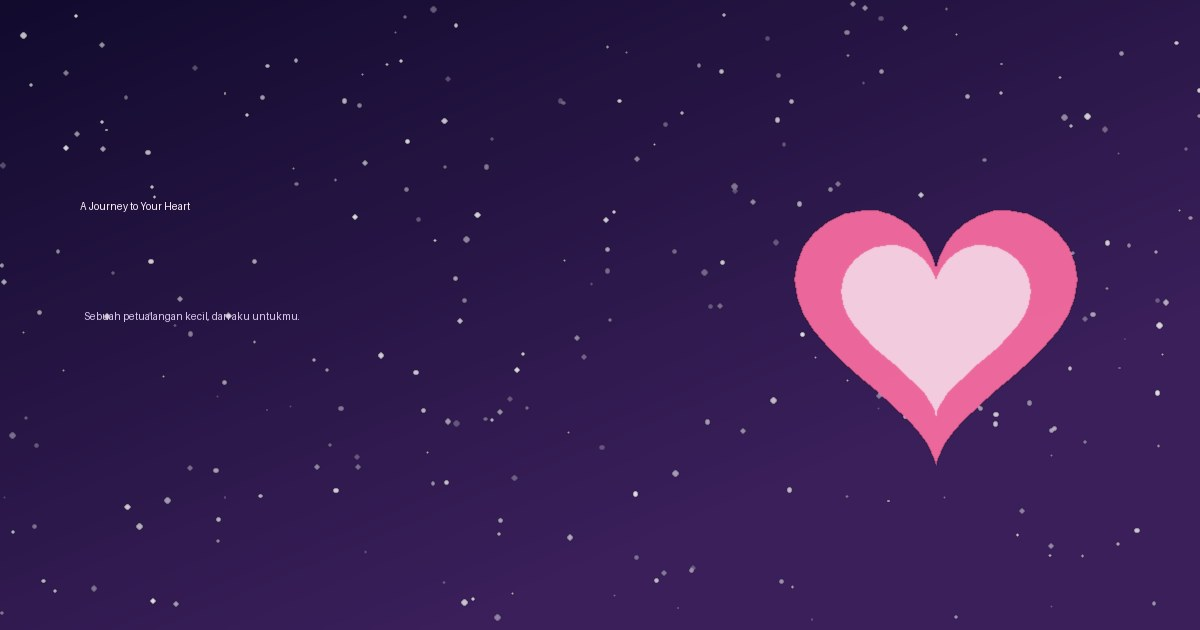
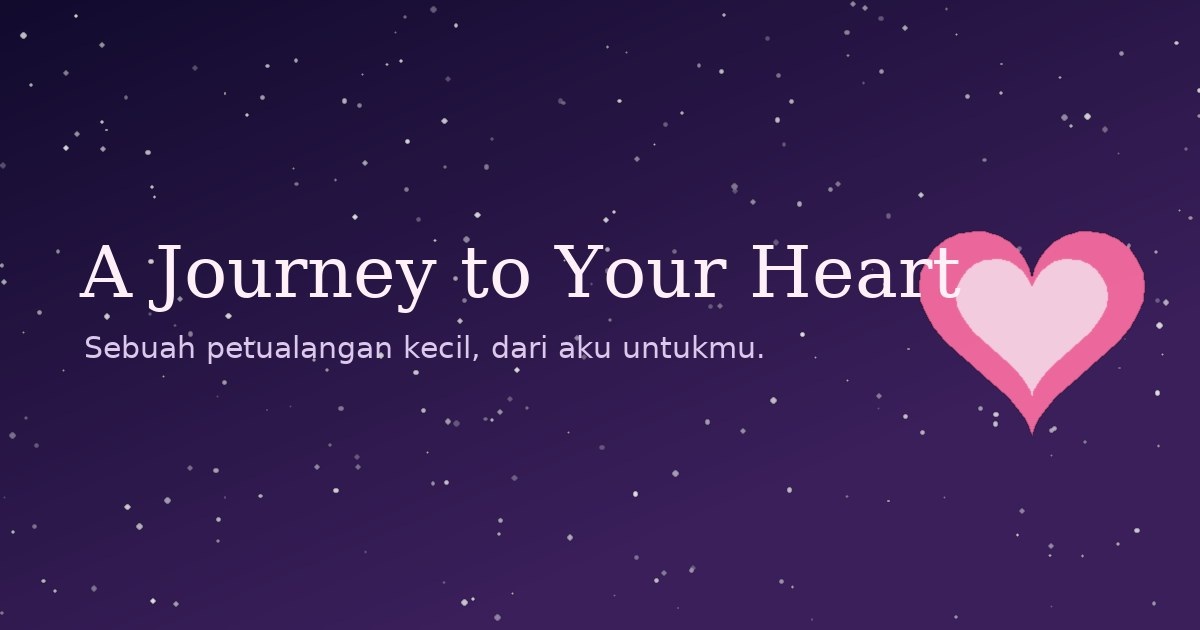
docs: README, OG/key visuals, suspense-local polaroids, geometry scale fixes

Changed region(s): [[0.0617, 0.3317, 0.9558, 0.7238], [0.0617, 0.5429, 0.6475, 0.573], [0.0925, 0.3016, 0.1542, 0.3317]]

diff --git a/src/game/scenes/environments/MemoryGarden.tsx b/src/game/scenes/environments/MemoryGarden.tsx
@@ -1,6 +1,6 @@
 "use client";
 
-import { useEffect, useMemo, useRef } from "react";
+import { Suspense, useEffect, useMemo, useRef } from "react";
 import { useFrame } from "@react-three/fiber";
 import { useTexture } from "@react-three/drei";
 import * as THREE from "three";
@@ -88,6 +88,8 @@ function Pavilion() {
 /* -------------------------------------------------------------------------- */
 /*  Floating polaroids                                                        */
 /* -------------------------------------------------------------------------- */
+
+story.memories.forEach((m) => useTexture.preload(m.image));
 
 function Polaroid({ index, active }: { index: number; active: boolean }) {
   const memory = story.memories[index];
@@ -445,7 +447,14 @@ export default function MemoryGarden() {
           />
         ))}
 
-      {showPolaroids && story.memories.map((_, i) => <Polaroid key={i} index={i} active={sceneId === "memory-in-the-air" || sceneId === "memory-tree"} />)}
+      {/* Polaroids suspend on their textures — keep that local so the world never unmounts. */}
+      {showPolaroids && (
+        <Suspense fallback={null}>
+          {story.memories.map((_, i) => (
+            <Polaroid key={i} index={i} active={sceneId === "memory-in-the-air" || sceneId === "memory-tree"} />
+          ))}
+        </Suspense>
+      )}
 
       <Particles count={220} texture="petal" color={["#ff9fc4", "#ffd6e7", "#f3d08a"]} size={[0.1, 0.26]} area={[56, 12, 56]} center={[0, 6, 0]} velocity={[0.6, -0.35, 0.2]} jitter={0.5} sway={1} spin={1.5} twinkle={0.2} additive={false} seed={61} />
       <Particles count={140} texture="firefly" color={["#ffd27a", "#fff1c9"]} size={[0.06, 0.18]} area={[50, 5, 50]} center={[0, 1.5, 0]} velocity={[0.05, 0.08, 0.05]} jitter={0.5} sway={0.6} twinkle={1.8} seed={62} />

diff --git a/src/game/scenes/environments/OceanWorld.tsx b/src/game/scenes/environments/OceanWorld.tsx
@@ -198,8 +198,8 @@ function Boat() {
         <capsuleGeometry args={[0.9, 2.6, 6, 12]} />
         <meshStandardMaterial color="#2a1a14" roughness={0.9} />
       </mesh>
-      <mesh position={[0, 0.5, 0]} rotation={[Math.PI / 2, 0, 0]}>
-        <torusGeometry args={[1.0, 0.09, 8, 28]} scale={[1, 2.2, 1]} />
+      <mesh position={[0, 0.5, 0]} rotation={[Math.PI / 2, 0, 0]} scale={[1, 2.2, 1]}>
+        <torusGeometry args={[1.0, 0.09, 8, 28]} />
         <meshStandardMaterial color="#8a5a3a" roughness={0.8} />
       </mesh>
       {/* bench + lantern pole at the bow */}
@@ -306,8 +306,8 @@ function StarShrine({ active, onInteract }: { active: boolean; onInteract: () =>
   });
   return (
     <group position={[p[0], 0, p[2]]}>
-      <mesh position={[0, -0.5, 0]}>
-        <dodecahedronGeometry args={[SHRINE_ROCK_R, 1]} scale={[1, 0.35, 1]} />
+      <mesh position={[0, -0.5, 0]} scale={[1, 0.35, 1]}>
+        <dodecahedronGeometry args={[SHRINE_ROCK_R, 1]} />
         <meshStandardMaterial color="#3a3350" roughness={1} flatShading />
       </mesh>
       <mesh position={[0, 1.2, 0]}>

diff --git a/tests/registry.test.ts b/tests/registry.test.ts
@@ -1,6 +1,7 @@
 import { describe, expect, it } from "vitest";
 import { CHAPTERS, SCENES, SCENE_ORDER, TOTAL_SCENES, getChapterOfScene, getScene, isFirstSceneOfChapter, isLastSceneOfChapter, nextChapter } from "@/game/scenes/registry";
 import { story } from "@/config/story";
+import type { SceneId } from "@/types/game";
 
 describe("scene registry", () => {
   it("has 25 scenes in 5 chapters of 5", () => {
@@ -11,11 +12,11 @@ describe("scene registry", () => {
 
   it("forms a single linear chain from the first scene to the ending", () => {
     const visited = new Set<string>();
-    let id: string | undefined = SCENE_ORDER[0];
+    let id: SceneId | null = SCENE_ORDER[0];
     while (id) {
       expect(visited.has(id), `cycle at ${id}`).toBe(false);
       visited.add(id);
-      id = getScene(id as never).next;
+      id = getScene(id).next ?? null;
     }
     expect(visited.size).toBe(TOTAL_SCENES);
     expect([...visited].at(-1)).toBe("new-beginning");

diff --git a/src/game/scenes/environments/CastleWorld.tsx b/src/game/scenes/environments/CastleWorld.tsx
@@ -513,7 +513,7 @@ export default function CastleWorld() {
       ))}
 
       <GlowMarker position={[CASTLE.gate[0], getHeight(CASTLE.gate[0], CASTLE.gate[2]), CASTLE.gate[2]]} active={sceneId === "forgotten-castle"} color="#f3d08a" />
-      <GlowMarker position={[CASTLE.gate[0], 0.15, CASTLE.gate[2] - 4]} active={sceneId === "unspoken-words" && fx.castleGate > 0.5 && runtime.player.position.z > FZ} color="#f3d08a" beam={false} />
+      <GlowMarker position={[CASTLE.gate[0], 0.15, CASTLE.gate[2] - 4]} active={sceneId === "unspoken-words"} color="#f3d08a" beam={false} />
       <GlowMarker position={[CASTLE.heartRoom[0], 0.2, CASTLE.heartRoom[2] + 6]} active={sceneId === "heart-chamber"} color="#ff8fb8" />
 
       {showKeys &&

diff --git a/scripts/generate-textures.py b/scripts/generate-textures.py
@@ -351,6 +351,22 @@ def heart_poly(d: ImageDraw.ImageDraw, cx, cy, s, fill):
     d.polygon(pts, fill=fill)
 
 
+FONT_DIRS = ["/usr/share/fonts/truetype/dejavu", "/usr/share/fonts/truetype", "/Library/Fonts", "C:/Windows/Fonts"]
+
+
+def load_font(candidates, size):
+    """Best-effort system font lookup (Pillow cannot read woff2)."""
+    for name in candidates:
+        for d in FONT_DIRS:
+            path = os.path.join(d, name)
+            if os.path.exists(path):
+                try:
+                    return ImageFont.truetype(path, size)
+                except Exception:
+                    continue
+    return ImageFont.load_default()
+
+
 def og_card(size=(1200, 630)):
     w, h = size
     arr = gradient(size, "#120b2e", "#3a1f5a", 0.9)
@@ -363,20 +379,14 @@ def og_card(size=(1200, 630)):
         y0 = rng.uniform(0, h)
         r = rng.uniform(0.8, 3)
         d.ellipse([x0 - r, y0 - r, x0 + r, y0 + r], fill=(255, 255, 255, int(rng.uniform(60, 220))))
-    heart_poly(d, w * 0.78, h * 0.5, 150, (255, 111, 163, 230))
-    heart_poly(d, w * 0.78, h * 0.5, 100, (255, 214, 231, 240))
+    heart_poly(d, w * 0.86, h * 0.5, 120, (255, 111, 163, 230))
+    heart_poly(d, w * 0.86, h * 0.5, 80, (255, 214, 231, 240))
     img = Image.alpha_composite(img, layer.filter(ImageFilter.GaussianBlur(0.6)))
     d = ImageDraw.Draw(img)
-    try:
-        font_big = ImageFont.truetype(os.path.join(ROOT, "fonts", "cormorant-garamond-600.woff2"), 84)
-    except Exception:
-        font_big = ImageFont.load_default()
-    try:
-        font_small = ImageFont.truetype(os.path.join(ROOT, "fonts", "inter-400.woff2"), 30)
-    except Exception:
-        font_small = ImageFont.load_default()
-    d.text((80, 200), "A Journey to Your Heart", font=font_big, fill=(255, 240, 248))
-    d.text((84, 310), "Sebuah petualangan kecil, dari aku untukmu.", font=font_small, fill=(220, 200, 235))
+    font_big = load_font(["DejaVuSerif.ttf", "Georgia.ttf", "Times New Roman.ttf"], 72)
+    font_small = load_font(["DejaVuSans.ttf", "Arial.ttf"], 30)
+    d.text((80, 230), "A Journey to Your Heart", font=font_big, fill=(255, 240, 248))
+    d.text((84, 330), "Sebuah petualangan kecil, dari aku untukmu.", font=font_small, fill=(220, 200, 235))
     return img.convert("RGB")
 
 

diff --git a/README.md b/README.md
@@ -1,1 +1,134 @@
-# Public-1
+# A Journey to Your Heart
+
+> Sebuah petualangan 3D kecil, dari aku untukmu.
+> An interactive, story-driven 3D web experience that walks someone you love through five dreamlike worlds — and ends with a question.
+
+Built with **Next.js 16 · React 19 · Three.js / React Three Fiber · GSAP · Zustand · Tailwind v4**. Runs in any modern browser, desktop or mobile, with no account, no backend and no third-party assets — every sound and texture is generated by scripts in this repository.
+
+---
+
+## The journey
+
+| Chapter | World | What happens |
+| --- | --- | --- |
+| 1 · Dunia yang Asing | Sky Island | Wake on a floating island, read the first letter, gather three lights, open the portal |
+| 2 · Taman Kenangan | Memory Garden | Pick five flowers, view five floating memories, offer the flowers to the memory tree |
+| 3 · Lautan Perasaan | Silent Ocean | Board the boat, sail to the light, find three bottled messages, connect the stars |
+| 4 · Kastil Kata-kata | Forgotten Castle | Find three keys, unlock three letter fragments, enter the heart chamber, read *the* letter |
+| 5 · Tujuan Terakhir | Final Garden | Follow the glowing path, revisit everything you found, open the gift, answer the question |
+
+25 scenes in total, each with a tiny objective, dialogue and a cinematic or two. Progress auto-saves to `localStorage`, so the recipient can close the tab and come back.
+
+## Quick start
+
+```bash
+npm install
+npm run dev          # http://localhost:3000
+```
+
+```bash
+npm run check        # typecheck + lint + tests + production build
+npm run build && npm start
+```
+
+Requires Node 20+.
+
+## Make it yours
+
+Everything personal lives in **one file**: [`src/config/story.ts`](src/config/story.ts).
+
+- `senderName`, `recipientName`, `title`, `tagline`
+- every letter, dialogue line, bottled message, key description and letter fragment
+- the five memories (`title`, `caption`, `date`, `image`)
+- the proposal question and both answers' endings
+- accent colours, animation speed, puzzle difficulty
+
+The config is validated against a Zod schema on boot (`src/config/schema.ts`), so a typo surfaces as a clear error instead of a broken scene.
+
+### Replacing the memory photos
+
+Drop your own pictures into `public/memories/` as `memory-01.webp` … `memory-05.webp` (any aspect ratio — they're shown as polaroids and in a modal). The shipped images are illustrated placeholders produced by `scripts/generate-textures.py`.
+
+### Regenerating audio and textures
+
+All audio (8 music loops, 5 ambience beds, 28 sound effects) and textures (particle sprites, noise/paper/water tiles, memory cards, social card) are **synthesised procedurally** — the repository contains no third-party samples.
+
+```bash
+pip install numpy pillow soundfile lameenc
+npm run assets:audio      # → public/audio/**/*.{ogg,mp3}
+npm run assets:textures   # → public/{particles,textures,memories,images}
+```
+
+Tweak a melody in `scripts/generate-audio.py` (chord progressions, instruments and effects are a few lines each) and re-run; the game picks up the new files automatically.
+
+## Controls
+
+| Action | Desktop | Mobile |
+| --- | --- | --- |
+| Move / steer boat | `W A S D` or arrows | left joystick |
+| Look | mouse drag | drag right side |
+| Interact | `E` / `Space` / click | tap the prompt |
+| Run | `Shift` | — |
+| Inventory | `I` | bag button |
+| Pause / settings | `Esc` | pause button |
+| Skip cinematic | `Esc` / `Space` | tap "skip" |
+
+A quality tier (low / medium / high) is picked automatically from the device and can be changed in settings; it controls DPR, shadows, bloom, depth of field, ambient occlusion and particle density.
+
+## Architecture
+
+```
+src/
+├─ app/                    Next.js shell (static), fonts, metadata
+├─ components/
+│  ├─ game/                Canvas, HUD, menus, mobile controls, loading/boot
+│  ├─ story/               Letters, memories, bottles, fragments, star puzzle, proposal, endings
+│  └─ ui/                  Buttons, panels, icons, typewriter
+├─ config/                 story.ts (content) · schema.ts · assets.ts · theme.ts · controls.ts
+├─ game/
+│  ├─ engine/              GameManager (scene flow), runtime, input, world, fx, interactions
+│  ├─ engine/systems/      Player, camera, interaction and look-control systems (useFrame)
+│  ├─ scenes/              registry (25 scenes), landmarks, scripts, SceneRouter
+│  ├─ scenes/environments/ SkyIsland · MemoryGarden · OceanWorld · CastleWorld · FinalGarden
+│  ├─ objects/             Terrain, flora, water, portal, collectibles, sky dome, particles, character
+│  ├─ animations/          GSAP camera helpers
+│  └─ systems/             Audio manager (Howler), quality tiers, inventory items
+├─ lib/                    math, shaders, device detection, preload, i18n
+├─ store/                  Zustand stores: progress (persisted), settings, UI
+└─ types/
+scripts/                   generate-audio.py · generate-textures.py · synth.py
+tests/                     Vitest suite (story schema, scene graph, assets, inventory, math, save data)
+```
+
+Design notes:
+
+- **One persistent `<Canvas>`.** Environments are lazy-loaded React components routed by `SceneRouter`; chapter changes crossfade behind a veil while the next world mounts and reports `notifyEnvironmentReady`.
+- **Hot state lives outside React.** Player, camera rig, input and the interaction registry are plain objects read in `useFrame`; GSAP timelines drive the camera and `fx` values during cinematics. React/Zustand only handle UI and persisted progress.
+- **Scenes are data.** `scenes/registry.ts` declares every scene (chapter, kind, objective, spawn, next); `scenes/scripts.ts` holds the per-scene cinematic/dialogue scripts; environments only expose interactables and proximity triggers.
+- **Boat mode.** The ocean world switches the player into a physics-light boat controller (throttle / steering, wave bobbing from the same `waterHeightAt` function the water shader uses) with a dedicated camera mode.
+
+## Deploying
+
+The app is a static shell plus client bundles — it deploys to Vercel with zero configuration:
+
+```bash
+npx vercel
+```
+
+Set `NEXT_PUBLIC_SITE_URL` to your production URL so social cards resolve correctly. Generated assets under `public/` are served with immutable cache headers (see `next.config.ts`).
+
+## Scripts
+
+| Script | Purpose |
+| --- | --- |
+| `npm run dev` | dev server on `0.0.0.0:3000` |
+| `npm run build` / `npm start` | production build / serve |
+| `npm run typecheck` | `tsc --noEmit` |
+| `npm run lint` | ESLint (Next + TypeScript rules) |
+| `npm test` | Vitest |
+| `npm run check` | all of the above plus a build |
+| `npm run assets:audio` / `assets:textures` | regenerate the procedural assets |
+
+## Licence
+
+Code: MIT. Fonts: Cormorant Garamond, Manrope and Dancing Script under the SIL Open Font License (see `public/fonts/`). Generated audio and images: do whatever you like with them — they were made for you.
